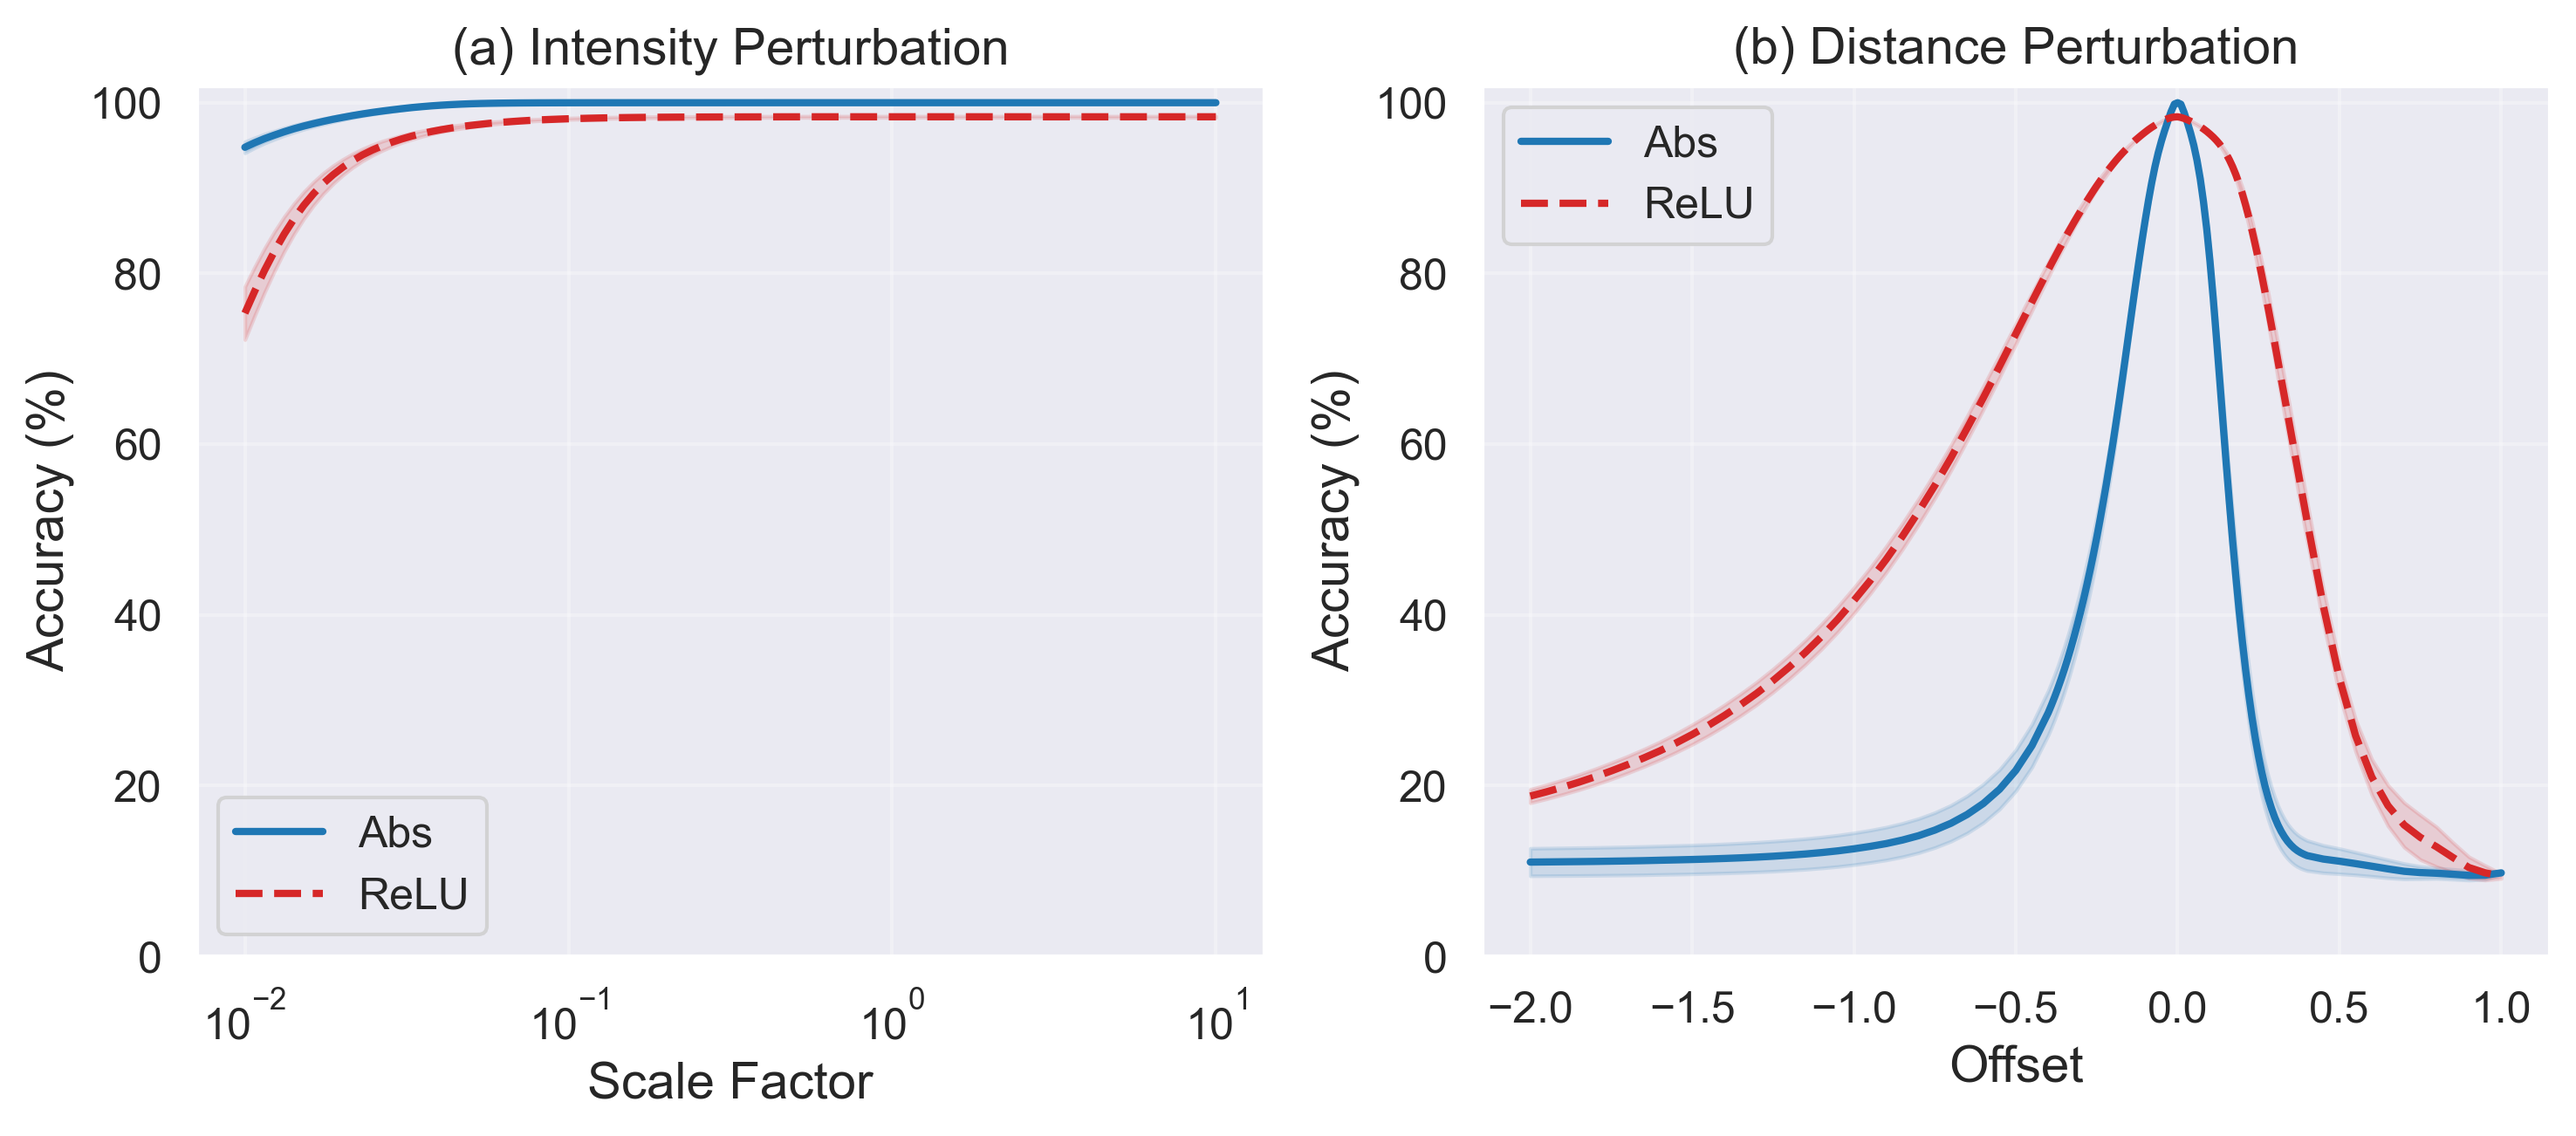
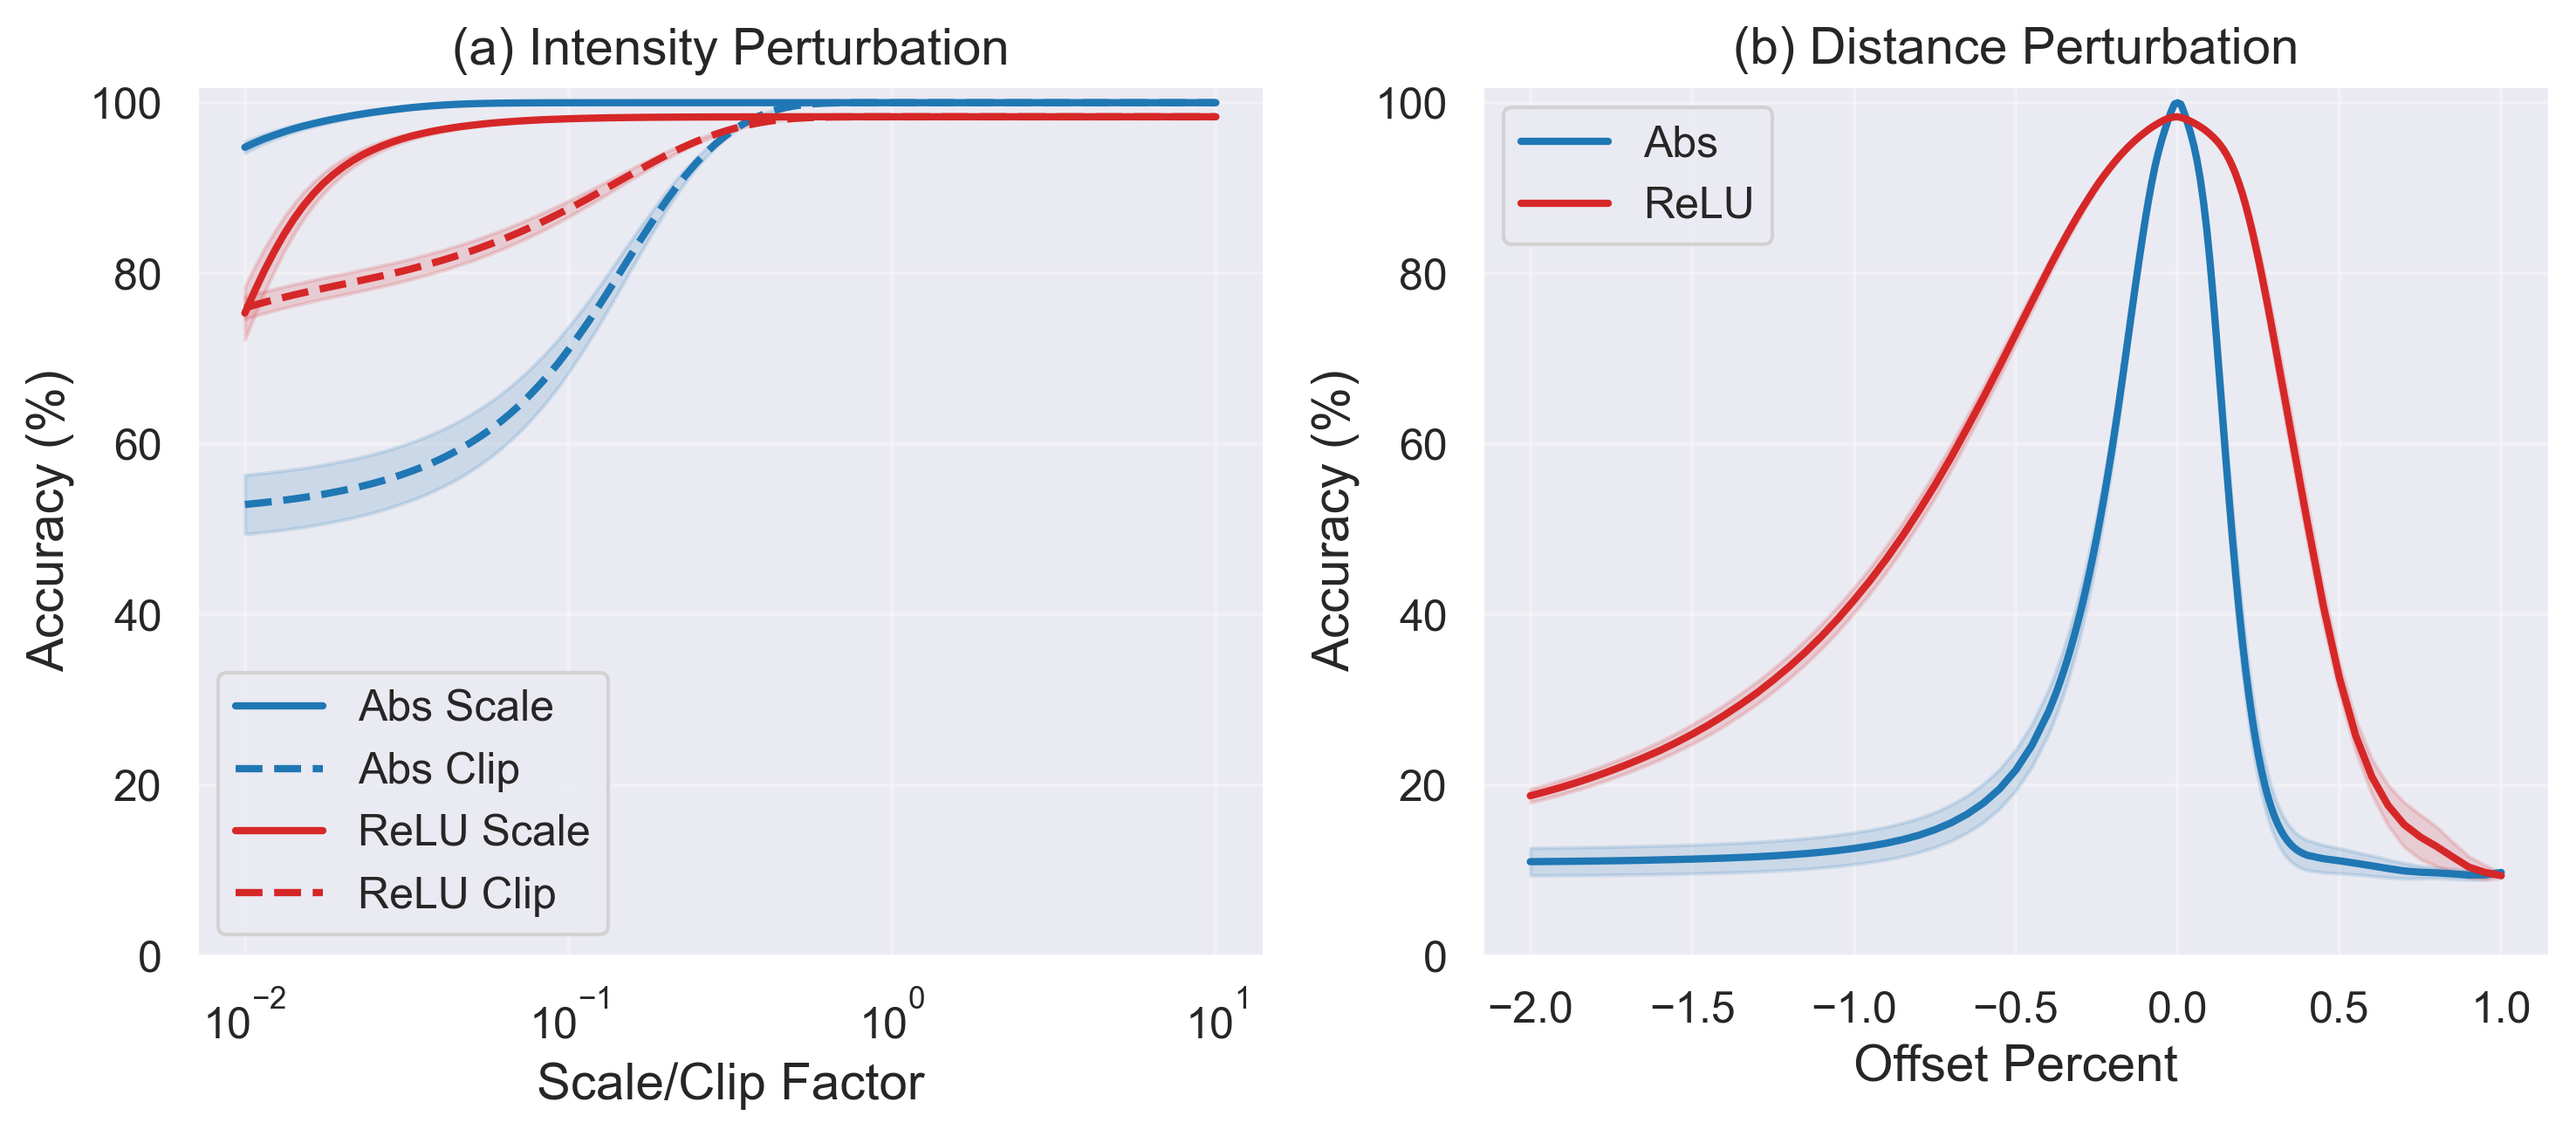
design and results drafts

diff --git a/paper/sections/results.tex b/paper/sections/results.tex
@@ -1,32 +1,5 @@
 \section{Results}
 
-Results of the experiment support our theory that the tested models use distance, and not intensity, features.
-
-\subsection{Baseline Performance}
-
-
-Both models achieved strong classification performance on MNIST before perturbation testing, as shown in Table~\ref{tab:baseline}.
-
-\begin{table}[h]
-\centering
-\begin{tabular}{lrrr}
-\hline
-Model & Training Acc (\%) & Test Acc (\%) & Loss \\
-\hline
-PerturbationAbs & 99.99 $\pm$ 0.00 & 95.29 $\pm$ 0.20 & 0.0047 $\pm$ 0.0005 \\
-PerturbationReLU & 98.33 $\pm$ 0.15 & 95.61 $\pm$ 0.14 & 0.0610 $\pm$ 0.0044 \\
-\hline
-\end{tabular}
-\caption{Baseline model performance averaged across 20 training runs (mean $\pm$ standard deviation).}
-\label{tab:baseline}
-\end{table}
-
-\subsection{Perturbation Analysis}
-
-Both models demonstrate strong invariance to intensity scaling while showing significant sensitivity to distance perturbations, supporting our theoretical framework. Figure~\ref{fig:perturbation_analysis} shows these effects across both perturbation types.
-
-The PerturbationAbs model maintains consistent performance across a wide range of intensity scales while showing dramatic accuracy degradation under distance perturbations, dropping to 11.80\% accuracy at 0.4 offset. The PerturbationReLU model exhibits similar patterns, though with more moderate effects, maintaining 50.99\% accuracy at the same offset.
-
 \begin{figure}[h]
     \centering
     \includegraphics[width=\textwidth]{images/perturbation_analysis}
@@ -35,29 +8,86 @@ The PerturbationAbs model maintains consistent performance across a wide range o
     \end{figure}
 \subsection{Statistical Analysis}
 
-Table~\ref{tab:ttest} shows the statistical significance of these effects through paired t-tests comparing perturbed performance against baseline accuracy. Both models show highly significant responses to distance perturbations ($p < 10^{-16}$), while only the PerturbationReLU model shows modest sensitivity to intensity scaling ($p < 0.005$).
+    
+
+Results of the experiment provide strong empirical support for our theory that the tested models primarily utilize distance metrics rather than intensity metrics.
 
 \begin{table}[h]
-\centering
-\begin{tabular}{llrrr}
-\hline
-Model & Test & T-statistic & P-value & Mean Acc (\%) \\
-\hline
-\multirow{4}{*}{PerturbationAbs} 
- & Scale 0.5 & -2.031 & 5.645e-02 & 99.99 \\
- & Scale 2.0 & -2.015 & 5.829e-02 & 99.99 \\
- & Offset -0.4 & 41.305 & 4.545e-20 & 28.51 \\
- & Offset 0.4 & 26.519 & 1.790e-16 & 11.80 \\
-\hline
-\multirow{4}{*}{PerturbationReLU}
- & Scale 0.5 & -3.689 & 1.558e-03 & 98.33 \\
- & Scale 2.0 & -3.202 & 4.693e-03 & 98.33 \\
- & Offset -0.4 & 40.709 & 5.973e-20 & 80.38 \\
- & Offset 0.4 & 37.155 & 3.319e-19 & 50.99 \\
-\hline
-\end{tabular}
-\caption{Statistical significance of perturbation effects compared to baseline performance.}
-\label{tab:ttest}
+    \centering
+    \begin{tabular}{lrrr}
+    \hline
+    Model & Training Acc (\%) & Test Acc (\%) & Loss \\
+    \hline
+    Abs & 99.99 $\pm$ 0.00 & 95.29 $\pm$ 0.20 & 0.0047 $\pm$ 0.0005 \\
+    ReLU & 98.33 $\pm$ 0.15 & 95.61 $\pm$ 0.14 & 0.0610 $\pm$ 0.0044 \\
+    \hline
+    \end{tabular}
+    \caption{Baseline model performance averaged across 20 training runs (mean $\pm$ standard deviation).}
+    \label{tab:baseline}
 \end{table}
 
-We observe a transition point in the intensity perturbation results around scale factor 0.08, where both models begin to show degraded performance. We believe this represents the scale at which intensity-based activations approach the magnitude range where distance-based features typically operate.
+Both models achieved strong classification performance on MNIST before perturbation testing, as shown in Table~\ref{tab:baseline}.
+
+Both models demonstrate strong invariance to intensity perturbations while showing significant sensitivity to distance perturbations, supporting our theory. Figure~\ref{fig:perturbation_analysis} shows these effects across perturbation types.
+
+Both models maintain their baseline accuracy (98\% for ReLU and 99\% for Abs) across both scaling (10\% to 200\% of output ranges) and threshold clipping (50\% and above). The minimal drop in performance is small and statisticaly significant (p < 0.01). 
+
+Both models lose accuracy quickly with small offset perturbations. ReLU maintains its baseline of 98\% over a -3\% to +2\% offset range. Abs is even more sensitive and falls below 99\% outside of -1\% to +1\%.
+
+Most of these values are highly statistically significant as shown in Table~\ref{tab:scale_data},  Table~\ref{tab:clip_data}, and  Table~\ref{tab:distance_data}.
+
+\begin{table}[h]
+    \centering
+    \begin{tabular}{lrrrrrr}
+    \hline
+    Change & Abs Acc (\%) & Abs T & Abs P & ReLU Acc (\%) & ReLU T & ReLU P \\
+    \hline
+    +10\% & 99.98 & 5.460 & 2.879e-05 & 98.10 & 10.374 & 2.906e-09 \\
+    +20\% & 99.98 & 0.845 & 4.085e-01 & 98.29 & 6.520 & 3.029e-06 \\
+    +40\% & 99.99 & -0.566 & 5.779e-01 & 98.33 & -4.334 & 3.578e-04 \\
+    +80\% & 99.99 & -1.674 & 1.106e-01 & 98.33 & -3.514 & 2.320e-03 \\
+    +900\% & 99.99 & -2.015 & 5.829e-02 & 98.33 & -3.202 & 4.693e-03 \\
+    \hline
+    \end{tabular}
+    \caption{Results for intensity scale perturbations compared to baseline performance.}
+    \label{fig:scale_data}
+\end{table}
+    
+\begin{table}[h]
+    \centering
+    \begin{tabular}{lrrrrrr}
+    \hline
+    Change & Abs Acc (\%) & Abs T & Abs P & ReLU Acc (\%) & ReLU T & ReLU P \\
+    \hline
+    +10\% & 71.05 & 21.910 & 6.030e-15 & 87.56 & 22.964 & 2.547e-15 \\
+    +20\% & 88.55 & 20.972 & 1.342e-14 & 93.84 & 20.603 & 1.855e-14 \\
+    +40\% & 98.70 & -25.278 & 4.344e-16 & 97.74 & -23.404 & 1.796e-15 \\
+    +80\% & 99.98 & -26.454 & 1.873e-16 & 98.33 & -27.941 & 6.789e-17 \\
+    \hline
+    \end{tabular}
+    \caption{Results for intensity clip perturbations compared to baseline performance.}
+    \label{fig:clip_data}
+\end{table}
+
+\begin{table}[h]
+    \centering
+    \begin{tabular}{lrrrrrr}
+    \hline
+    Change & Abs Acc (\%) & Abs T & Abs P & ReLU Acc (\%) & ReLU T & ReLU P \\
+    \hline
+    -80\% & 14.14 & 47.472 & 3.309e-21 & 52.11 & 63.948 & 1.191e-23 \\
+    -20\% & 60.05 & -28.028 & 6.410e-17 & 80.38 & 40.709 & 5.973e-20 \\
+    -10\% & 86.25 & -31.506 & 7.260e-18 & 92.78 & -33.276 & 2.616e-18 \\
+    -4\% & 96.73 & -40.478 & 6.644e-20 & 96.55 & -36.744 & 4.088e-19 \\
+    -1\% & 99.82 & -42.731 & 2.400e-20 & 97.98 & -38.915 & 1.393e-19 \\
+    +1\% & 99.81 & -42.727 & 2.405e-20 & 98.31 & -39.848 & 8.924e-20 \\
+    +4\% & 96.45 & -39.975 & 8.406e-20 & 98.26 & -39.645 & 9.821e-20 \\
+    +10\% & 81.40 & -19.541 & 4.856e-14 & 97.81 & -37.453 & 2.857e-19 \\
+    +20\% & 36.90 & 7.887 & 2.068e-07 & 96.31 & -28.323 & 5.277e-17\\
+    +80\% & 9.74 & 45.298 & 8.004e-21 & 12.83 & 70.202 & 2.038e-24 \\
+    \hline
+    \end{tabular}
+    \caption{Results for distance perturbations (offset) compared to baseline performance.}
+    \label{fig:distance_data}
+\end{table}
+

diff --git a/src/analyze_perturbation.py b/src/analyze_perturbation.py
@@ -71,16 +71,6 @@ def load_and_process_results(filepath):
     return stats_dict
 
 def plot_results(stats_dict, publication_ready=False):
-    for model_name, stats in stats_dict.items():
-        print(f"Model: {model_name}")
-        print(f"Scale X shape: {stats['scale']['x'].shape}")
-        print(f"Scale Mean shape: {stats['scale']['mean'].shape}")
-        print(f"Clip X shape: {stats['clip']['x'].shape}")
-        print(f"Clip Mean shape: {stats['clip']['mean'].shape}")
-        print(f"Offset X shape: {stats['offset']['x'].shape}")
-        print(f"Offset Mean shape: {stats['offset']['mean'].shape}")
-
-
     """Create plots with confidence intervals"""
     if publication_ready:
         seaborn.set_theme()
@@ -210,14 +200,14 @@ def perform_ttests(filepath):
         print("Offset |  T-statistic  |  P-value  | Mean Accuracy")
         print("-" * 55)
         
-        offset_points = [-0.6, -0.4, -0.2, 0.2, 0.4, 0.6]
+        offset_points = [-0.8, -0.4, -0.2, -0.1, -0.04, -0.03, -0.02, -0.01, 0.0, 0.01, 0.02, 0.03, 0.04, 0.1, 0.2, 0.4, 0.8]
         offset_x = model_runs[0]['offset_values']
         for offset in offset_points:
             idx = np.abs(offset_x - offset).argmin()
             offset_accs = [run['offset_accuracies'][idx] for run in model_runs]
             t_stat, p_val = stats.ttest_rel(baseline_offset, offset_accs)
             mean_acc = np.mean(offset_accs)
-            print(f"{offset:6.1f} |  {t_stat:11.3f}  |  {p_val:8.3e}  |  {mean_acc:6.2f}%")
+            print(f"{offset:6.2f} |  {t_stat:11.3f}  |  {p_val:8.3e}  |  {mean_acc:6.2f}%")
 
 def main():
     # Load and analyze results

diff --git a/paper/sections/design.tex b/paper/sections/design.tex
@@ -58,9 +58,9 @@ Distance-based features are expected to lie near the decision boundary. By shift
 
 We lack a statistical framework for intensity metrics, so we rely on heuristics to identify perturbations that might disrupt them. Two operations are tested: scaling and clipping.
 
-\paragraph{Scaling.} This operation multiplies node outputs by a scalar value. For a scaling percentage $s$, the perturbation parameters are:
+\paragraph{Scaling.} This operation multiplies node outputs by a scalar value. For a scaling percentage $p$, the perturbation parameters are:
 \begin{align}
-    \text{scale} &= s, \\
+    \text{scale} &= p, \\
     \text{offset} &= 0, \\
     \text{clip} &= \infty.
 \end{align}
